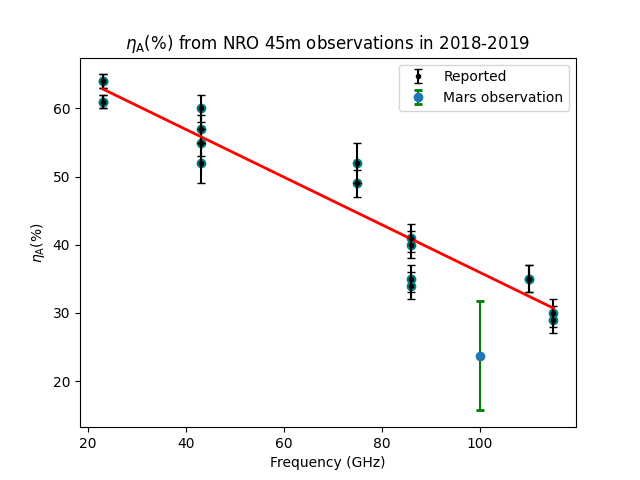
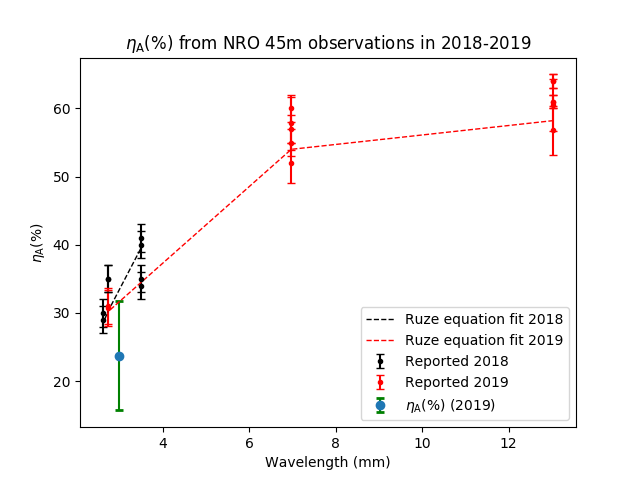
Ruze euation it done

diff --git a/ruze_equation_fit.py b/ruze_equation_fit.py
@@ -1,0 +1,51 @@
+#!/usr/bin/python3
+
+import numpy as np
+import matplotlib.pyplot as plt
+from scipy.interpolate import interp1d
+
+#Constants
+c=299792458
+ε = 1.8e-4
+η_0 = 0.6
+
+x_18 = np.array([ 86, 86, 86, 86, 110, 110, 115, 115])
+x_19 = np.array([23, 23, 23, 23, 23, 23, 43, 43, 43, 43, 43, 110, 110])
+y_18 = np.array([ 34, 35, 40, 41, 35, 35, 30, 29])
+y_19 = np.array([64, 64, 61, 61, 56.8, 60.5, 57.8, 52, 55, 60, 57, 30.7, 31])
+y_err_18 = np.array([2, 2, 2, 2, 2, 2, 2, 2])
+y_err_19 = np.array([1, 1, 1, 1, 3.6, 3.8, 3.9, 3, 2, 2, 2, 2.6, 2.6])
+
+our_result_x = np.array([100])
+our_result_y = np.array([23.69])
+our_result_y_err = np.array([8])
+
+# Ruze equation
+def convert(arr):
+	return(c / (arr*1e9))
+
+def ruze(arr):
+	return (η_0 * np.exp(-((4*np.pi*ε)/arr)**2))
+# dummy_x = np.arange(3,13,0.1)
+# print(dummy_x)
+
+
+# plt.scatter(x_18, y_18,  color='teal')
+plt.errorbar(1000*convert(x_18), y_18, y_err_18, capsize=3, fmt='.k', label='Reported 2018')
+plt.errorbar(1000*convert(x_19), y_19, y_err_19, capsize=3, fmt='.r', label='Reported 2019')
+
+plt.errorbar(1000*convert(our_result_x), our_result_y, our_result_y_err, capsize=3,
+ fmt='o', ecolor='g', capthick=2, label='$\eta_{\mathrm{A}}(\%)$ (2019)')
+
+plt.plot(1000*convert(x_18), 100*ruze(convert(x_18)), '--', color='k', linewidth=1, label="Ruze equation fit 2018")
+plt.plot(1000*convert(x_19), 100*ruze(convert(x_19)), '--', color='r', linewidth=1, label="Ruze equation fit 2019")
+
+# f = interp1d(1000*convert(x_19), 100*ruze(convert(x_19)), kind='cubic')
+# plt.plot(dummy_x, f(dummy_x))
+
+plt.title('$\eta_{\mathrm{A}}(\%)$ from NRO 45m observations in 2018-2019')
+plt.xlabel('Wavelength (mm)')
+plt.ylabel('$\eta_{\mathrm{A}}(\%)$')
+plt.legend()
+# plt.savefig('eta_A_Mars.png')
+plt.show()

diff --git a/linear_regression.py b/linear_regression.py
@@ -40,7 +40,7 @@ plt.title('$\eta_{\mathrm{mb}}(\%)$ from NRO 45m observations in 2018-2019')
 plt.xlabel('Frequency (GHz)')
 plt.ylabel('$\eta_{\mathrm{mb}}(\%)$')
 plt.legend()
-plt.savefig('eta_mb_Mars.png')
+# plt.savefig('eta_mb_Mars.png')
 plt.show()
 
 y_pred = model.predict(np.array([100]).reshape((-1, 1)))
@@ -80,7 +80,7 @@ plt.title('$\eta_{\mathrm{A}}(\%)$ from NRO 45m observations in 2018-2019')
 plt.xlabel('Frequency (GHz)')
 plt.ylabel('$\eta_{\mathrm{A}}(\%)$')
 plt.legend()
-plt.savefig('eta_A_Mars.png')
+# plt.savefig('eta_A_Mars.png')
 plt.show()
 
 y_pred = model.predict(np.array([100]).reshape((-1, 1)))
